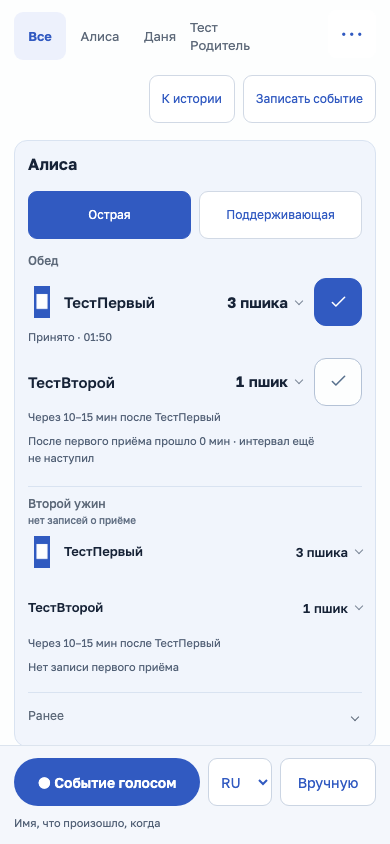
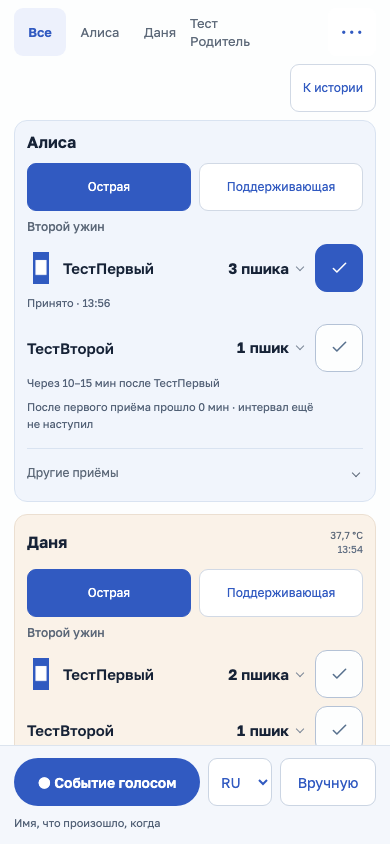
Compact family overview and clarify slot focus and dated measurements

diff --git a/site/public/family-workspace.js b/site/public/family-workspace.js
@@ -1,4 +1,4 @@
-import {shortDose} from '/family-preview-model.js';
+import {shortDose,measurementStamp} from '/family-preview-model.js';
 import {careDrug,careFamily,escapeHTML as e} from '/family-card.js';
 import {anchors,dayType} from '/routine.js';
 import {medicineForms,allowedMedicineUnits} from '/medicine-forms.js';
@@ -6,7 +6,7 @@ import {allRows,activeEvents,rowEvent,dependencyStatus,courseWarnings,localInsta
 import {photosForMedicine} from '/medicine-images.js';
 import {captureVoice} from '/voice-capture.js';
 const root=document.querySelector('#family'),dialog=document.querySelector('#family-info'),notice=document.querySelector('#family-status');
-let snapshot,selected=localStorage.getItem('medika-family-person')||'all',actions=[],openKey='',historyDrug=false,saving=false,loading=false,token='',day='',recording=null,voiceAt='',initialized=false,language=['ru','en'].includes(localStorage.getItem('medika-language'))?localStorage.getItem('medika-language'):'ru';
+let snapshot,selected=localStorage.getItem('medika-family-person')||'all',actions=[],openKey='',historyDrug=false,saving=false,loading=false,token='',day='',recording=null,voiceAt='',language=['ru','en'].includes(localStorage.getItem('medika-language'))?localStorage.getItem('medika-language'):'ru';
 const earlierOpen=new Set(),newId=()=> 'family-'+Array.from(crypto.getRandomValues(new Uint32Array(2)),n=>n.toString(16)).join('');
 const baseRows=()=>allRows(snapshot),rxFor=id=>snapshot.prescriptions.find(r=>r.id===id)||{},effectiveRow=row=>({...row,warnings:courseWarnings(rxFor(row.prescriptionId),snapshot.model.date)}),phaseOf=p=>p.phaseKey,visibleRow=(r,p)=>{const rx=rxFor(r.prescriptionId);return rx.confirmed&&(!rx.phase||rx.phase===phaseOf(p))&&rx.startDate<=snapshot.model.date&&(!rx.endDate||rx.endDate>=snapshot.model.date);};
 function message(text,undoId=''){notice.innerHTML=`<span>${e(text)}</span>${undoId?`<button type="button" data-undo="${e(undoId)}">Отменить</button>`:''}`;clearTimeout(message.timer);message.timer=setTimeout(()=>notice.textContent='',12000);}
@@ -16,7 +16,7 @@ async function api(path,body=null,method=body?'POST':'GET'){
   if(!response.ok){if(response.status===403)token='';const error=Error(value.error||'Не удалось сохранить');error.status=response.status;throw error;}return value;
 }
 function setBusy(value){root.setAttribute('aria-busy',String(value));for(const n of [...root.querySelectorAll('input,button,select'),...dialog.querySelectorAll('input,button,select,textarea')]){if(value){if(!('wasDisabled' in n.dataset))n.dataset.wasDisabled=String(n.disabled);n.disabled=true;}else if('wasDisabled' in n.dataset){n.disabled=n.dataset.wasDisabled==='true';delete n.dataset.wasDisabled;}}if(recording)root.querySelectorAll('input,button,select').forEach(n=>n.disabled=!n.hasAttribute('data-voice'));}
-async function refresh(){snapshot=await api('/family');day=dayType(snapshot.model.date);if(!snapshot.model.cards.some(p=>p.id===selected))selected='all';if(!initialized&&innerWidth>=700)openKey=snapshot.model.cards.find(p=>(selected==='all'||p.id===selected)&&p.current)?.current.rows[0]?.key||'';initialized=true;render();}
+async function refresh(){snapshot=await api('/family');day=dayType(snapshot.model.date);if(!snapshot.model.cards.some(p=>p.id===selected))selected='all';render();}
 async function load(){if(loading||saving||recording||dialog.open)return;loading=true;try{await refresh();}catch(error){message(error.message);if(!snapshot)root.innerHTML='<main class="family-loading"><p>Не удалось открыть журнал</p><button data-retry>Обновить</button></main>';}finally{loading=false;}}
 async function mutate(path,body,method='POST',{close=true,success='Сохранено',undo=false}={}){
   if(saving||recording)return;saving=true;setBusy(true);let result,error;
@@ -39,37 +39,40 @@ function showDialog(title,body){dialog.innerHTML=`<header><h2 id="family-info-ti
 function medicineThumb(name){const photos=photosForMedicine(name,snapshot.medicinePhotos||[]).photos,p=photos.find(p=>p.kind==='product')||photos[0];if(!p)return '';return `<span class="family-thumb" aria-hidden="true">${p.crop?`<svg viewBox="${p.crop.slice(0,4).join(' ')}"><image href="${e(p.src)}" width="${p.crop[4]}" height="${p.crop[5]}"/></svg>`:`<img src="${e(p.src)}" alt="">`}</span>`;}
 function medicinePhotos(name){const record=photosForMedicine(name,snapshot.medicinePhotos||[]);return record.photos.length?`<section class="family-photos">${record.photos.map(p=>p.crop?`<figure><svg viewBox="${p.crop.slice(0,4).join(' ')}" role="img" aria-label="${e(name)}"><image href="${e(p.src)}" width="${p.crop[4]}" height="${p.crop[5]}"/></svg><figcaption>${p.kind==='product'?'Препарат':'Упаковка'}${p.note?' · '+e(p.note):''}</figcaption>${p.source?`<a href="${e(p.source)}" target="_blank" rel="noreferrer">Источник фото</a>`:''}</figure>`:`<figure><img src="${e(p.src)}" alt="${e(name)}"><figcaption>${p.kind==='product'?'Препарат':'Упаковка'}${p.note?' · '+e(p.note):''}</figcaption>${p.source?`<a href="${e(p.source)}" target="_blank" rel="noreferrer">Источник фото</a>`:''}</figure>`).join('')}</section>`:'';}
 function medicineInfo(key){const row=baseRows().find(r=>r.key===key);if(!row)return;showDialog(row.name,`${medicinePhotos(row.name)}${row.info.fields.length?`<section><h3>Данные препарата</h3>${fields(row.info.fields)}</section>`:''}${row.info.notes.length?`<section><h3>Условия назначения</h3>${fields(row.info.notes)}</section>`:''}${row.info.source?`<details class="medicine-source"><summary>Исходная запись врача</summary><p>${e(row.info.source)}</p></details>`:''}`);}
-function renderRow(source,later=false){const row=effectiveRow(source),event=rowEvent(snapshot,actions,row),status=event?`Принято · ${event.occurredAt?formatTime(event.occurredAt):'время неизвестно'}`:row.status||'',dependency=dependencyStatus(snapshot,actions,row);
+function renderRow(source,later=false){const row=effectiveRow(source),event=rowEvent(snapshot,actions,row),status=event?`Принято · ${event.occurredAt?formatTime(event.occurredAt):'время неизвестно'}`:row.status||'',dependencyState=dependencyStatus(snapshot,actions,row),dependency=dependencyState==='Нет записи первого приёма'&&row.dependency?.prescriptionId?'':dependencyState;
   let html=careDrug(event?.name||row.name,event?.input?shortDose({dose:event.input.actualDose||event.input.amount||event.input.dose,unit:event.input.unit}):row.dose,'',{later,readOnly:row.anchor==='unassigned'||row.canTake===false,actionKey:row.anchor==='unassigned'?'':row.key,fields:row.fields,moreId:row.info.fields.length||row.info.notes.length||row.info.source?row.key:'',after:row.after,taken:!!event,status});
-  html=html.replace(/<span class="care-med-name" data-drug-name>(.*?)<\/span>/,(_,name)=>`<span class="care-med-name" data-drug-name>${medicineThumb(row.name)}<span class="family-drug-label">${name}</span></span>`);
+  html=html.replace(/<span class="care-med-name" data-drug-name>(.*?)<\/span>/,(_,name)=>`<span class="care-med-name" data-drug-name>${medicineThumb(row.name)}<span class="family-drug-label">${name}</span>${row.warnings.length?`<span class="family-review-marker" role="img" aria-label="Расхождение назначения" title="${e(row.warnings.join(' · '))}">!</span>`:''}</span>`);
   html=html.replace('</dl>','</dl>'+`<div class="sandbox-row-actions"><button type="button" data-record="${e(row.key)}">${event||row.eventId?'Изменить факт':'Записать приём'}</button><button type="button" data-edit="${e(row.prescriptionId)}">Изменить назначение</button></div>`);
   if(row.warnings.length)html=html.replace('</summary>',`</summary><p class="sandbox-warning">${e(row.warnings.join(' · '))}</p>`);
   return `<div class="sandbox-dose${openKey===row.key?' is-selected':''}" data-demo-row="${e(row.key)}">${html}${dependency?`<p class="dependency-state">${e(dependency)}</p>`:''}</div>`;
 }
-function group(g,p,later=true){const rows=g.rows.filter(r=>visibleRow(r,p));if(!rows.length)return '';return `<section class="${later?'care-later':'care-current'}"><h3 class="sandbox-current-label">${e(g.label)}${rows.every(r=>!rowEvent(snapshot,actions,r))?' <small>нет записей о приёме</small>':''}</h3>${rows.map(r=>renderRow({...r,personId:p.id},later)).join('')}</section>`;}
+function group(g,p,later=true){const rows=g.rows.filter(r=>visibleRow(r,p));if(!rows.length)return '';return `<section class="${later?'care-later':'care-current'}"><h3 class="sandbox-current-label">${e(g.label)}</h3>${rows.map(r=>renderRow({...r,personId:p.id},later)).join('')}</section>`;}
 function peopleView(){return snapshot.model.cards;}
 function card(p){
   const own=snapshot.prescriptions.filter(r=>r.personId===p.id),phase=phaseOf(p),hasRows=[...(p.current?.rows||[]),...p.later.flatMap(g=>g.rows),...p.earlier.flatMap(g=>g.rows),...p.prn].some(r=>visibleRow(r,p));
-  const earlier=p.earlier.map(g=>group(g,p)).join(''),plan=hasRows?`${p.current?group(p.current,p,false):''}${p.later.map(g=>group(g,p)).join('')}${earlier?`<details class="care-earlier" data-earlier="${e(p.id)}"${earlierOpen.has(p.id)?' open':''}><summary>Ранее</summary>${earlier}</details>`:''}`:`<p class="family-empty">${own.length&&phase==='prevention'?'Поддерживающая схема ещё не добавлена':'Нет действующих плановых назначений'}</p>`;
-  const temperature=activeEvents(snapshot,actions).filter(r=>r.personId===p.id&&r.kind==='temperature'&&r.occurredAt).sort((a,b)=>Date.parse(b.occurredAt)-Date.parse(a.occurredAt))[0];
   const outside=own.filter(r=>!r.confirmed||r.startDate>snapshot.model.date||r.endDate&&r.endDate<snapshot.model.date);
-  return `<section class="care-person color-${p.color}" data-person="${e(p.id)}"><header class="care-person-head"><h2>${e(p.name)}</h2>${temperature?`<span class="care-phase">${e(temperature.name)} · ${e(formatTime(temperature.occurredAt))}</span>`:''}</header>${own.length?`<div class="sandbox-phases" role="group" aria-label="Фаза ${e(p.name)}">${[['acute','Острая'],['prevention','Поддерживающая']].map(([key,label])=>`<button type="button" data-phase="${key}" data-person="${e(p.id)}" aria-pressed="${phase===key}">${label}</button>`).join('')}</div>`:''}${plan}${p.prn.filter(r=>visibleRow(r,p)).length?`<section class="care-later"><h3>По необходимости</h3>${p.prn.filter(r=>visibleRow(r,p)).map(r=>renderRow({...r,personId:p.id},true)).join('')}</section>`:''}${outside.length?`<details class="care-earlier"><summary>Другие назначения · ${outside.length}</summary>${outside.map(r=>`<button class="sandbox-outside" type="button" data-edit="${e(r.id)}">${e(r.name)}<small>${e(!r.confirmed?'Не подтверждено':courseWarnings(r,snapshot.model.date).join(' · ')||'Курс завершён')}</small></button>`).join('')}</details>`:''}${!hasRows?`<button type="button" class="sandbox-empty-event" data-add-event="${e(p.id)}">Записать событие</button>`:''}</section>`;
+  const extra=p.later.map(g=>`<div data-slot-period="later">${group(g,p)}</div>`).join('')+p.earlier.map(g=>`<div data-slot-period="earlier">${group(g,p)}</div>`).join('');
+  const extraContent=extra+(outside.length?`<section class="family-outside"><h3>Другие назначения</h3>${outside.map(r=>`<button class="sandbox-outside" type="button" data-edit="${e(r.id)}">${e(r.name)}<small>${e(!r.confirmed?'Не подтверждено':courseWarnings(r,snapshot.model.date).join(' · ')||'Курс завершён')}</small></button>`).join('')}</section>`:'');
+  const plan=(p.current?group(p.current,p,false):hasRows?'':`<p class="family-empty">${own.length&&phase==='prevention'?'Поддерживающая схема ещё не добавлена':'Нет действующих плановых назначений'}</p>`)+(extraContent?`<details class="care-earlier family-other-slots" data-earlier="${e(p.id)}"${earlierOpen.has(p.id)?' open':''}><summary><span>Другие приёмы</span>${p.later[0]?`<small>Дальше · ${e(p.later[0].label)}</small>`:''}</summary>${extraContent}</details>`:'');
+  const temperature=activeEvents(snapshot,actions).filter(r=>r.personId===p.id&&r.kind==='temperature').sort((a,b)=>(b.date||'').localeCompare(a.date||'')||Date.parse(b.occurredAt||b.input?.createdAt||0)-Date.parse(a.occurredAt||a.input?.createdAt||0))[0];
+  return `<section class="care-person color-${p.color}" data-person="${e(p.id)}"><header class="care-person-head"><h2>${e(p.name)}</h2>${temperature?`<span class="care-phase">${e(temperature.name)}<small>${e(measurementStamp(temperature,snapshot.model.date,snapshot.timeZone))}</small></span>`:''}</header>${own.length?`<div class="sandbox-phases" role="group" aria-label="Фаза ${e(p.name)}">${[['acute','Острая'],['prevention','Поддерживающая']].map(([key,label])=>`<button type="button" data-phase="${key}" data-person="${e(p.id)}" aria-pressed="${phase===key}">${label}</button>`).join('')}</div>`:''}${plan}${p.prn.filter(r=>visibleRow(r,p)).length?`<section class="care-later"><h3>По необходимости</h3>${p.prn.filter(r=>visibleRow(r,p)).map(r=>renderRow({...r,personId:p.id},true)).join('')}</section>`:''}${!hasRows?`<button type="button" class="sandbox-empty-event" data-add-event="${e(p.id)}">Записать событие</button>`:''}</section>`;
 }
 const formatTime=instant=>new Date(instant).toLocaleTimeString('ru-RU',{timeZone:snapshot.timeZone,hour:'2-digit',minute:'2-digit'});
 const formatDate=instant=>new Date(instant).toLocaleDateString('ru-RU',{timeZone:snapshot.timeZone,day:'numeric',month:'long'});
-function eventHTML(r,names,local=false){const cancelled=r.status==='void',kind=r.kind==='cancel'?'cancel':r.kind;
-  return `<div class="care-event${local?' demo-event':''}${cancelled?' is-cancelled':''}" data-kind="${e(kind)}"><time>${r.occurredAt?e(formatTime(r.occurredAt)):'—'}${!local&&r.date!==snapshot.model.date?`<small>${e(r.date.slice(5).split('-').reverse().join('.'))}${r.date.slice(0,4)!==snapshot.model.date.slice(0,4)?' '+e(r.date.slice(0,4)):''}</small>`:''}</time><span>${e(names.get(r.personId)||'')}</span><strong>${r.kind==='cancel'?'Отмена · ':''}${e(r.name)}<small>${e(r.detail||'')}${cancelled?' · отменено':''}${!r.occurredAt?' · время неизвестно':''}${local?' · демо':''}</small></strong>${!cancelled?`<button type="button" class="family-event-edit" data-edit-event="${e(r.id)}" aria-label="Изменить запись ${e(r.name)}">Изменить</button>`:''}</div>`;
+function eventHTML(r,names,local=false,grouped=false){const cancelled=r.status==='void',kind=r.kind==='cancel'?'cancel':r.kind;
+  return `<div class="care-event${local?' demo-event':''}${cancelled?' is-cancelled':''}" data-kind="${e(kind)}"><time>${r.occurredAt?e(formatTime(r.occurredAt)):'—'}${!local&&!grouped&&r.date!==snapshot.model.date?`<small>${e(r.date.slice(5).split('-').reverse().join('.'))}${r.date.slice(0,4)!==snapshot.model.date.slice(0,4)?' '+e(r.date.slice(0,4)):''}</small>`:''}</time><span>${e(names.get(r.personId)||'')}</span><strong>${r.kind==='cancel'?'Отмена · ':''}${e(r.name)}<small>${e(r.detail||'')}${cancelled?' · отменено':''}${!r.occurredAt?' · время неизвестно':''}${local?' · демо':''}</small></strong>${!cancelled?`<button type="button" class="family-event-edit" data-edit-event="${e(r.id)}" aria-label="Изменить запись ${e(r.name)}">Изменить</button>`:''}</div>`;
 }
+function historyDays(history,names){const groups=new Map();for(const r of history){if(!groups.has(r.date))groups.set(r.date,[]);groups.get(r.date).push(r);}return [...groups].sort(([a],[b])=>b.localeCompare(a)).map(([date,rows])=>`<section class="family-history-day">${date!==snapshot.model.date?`<h3>${e(new Date(date+'T12:00:00Z').toLocaleDateString('ru-RU',{timeZone:'UTC',day:'numeric',month:'long',...(date.slice(0,4)!==snapshot.model.date.slice(0,4)?{year:'numeric'}:{})}))}</h3>`:''}${rows.map(r=>eventHTML(r,names,false,true)).join('')}</section>`).join('');}
 function historyHTML(people=snapshot.model.cards){
   const names=new Map(people.map(p=>[p.id,p.name])),chosen=baseRows().find(r=>r.key===openKey),filter=r=>(selected==='all'||r.personId===selected)&&(!historyDrug||!chosen||r.personId===chosen.personId&&(r.prescriptionId===chosen.prescriptionId||r.name===chosen.name));
   const history=snapshot.model.history.filter(filter);
-  const recent=activeEvents(snapshot,actions).filter(r=>r.kind==='medication'&&!['skipped','deferred'].includes(r.status)&&(selected==='all'||r.personId===selected)).slice().sort((a,b)=>Date.parse(b.occurredAt||0)-Date.parse(a.occurredAt||0)).filter((r,i,list)=>list.findIndex(x=>x.personId===r.personId&&x.name===r.name)===i).slice(0,4);
-  return `<div class="sandbox-history-head"><h2>История${historyDrug&&chosen?' · '+e(names.get(chosen.personId)):''}</h2>${chosen?`<button type="button" data-history-filter aria-pressed="${historyDrug}">${historyDrug?'Все события':'Только '+e(chosen.name)}</button>`:''}</div>${recent.length&&!historyDrug?`<details class="sandbox-recent" open><summary>Последние лекарства</summary>${recent.map(r=>`<p><strong>${e(names.get(r.personId))} · ${e(r.name)}</strong><span>${e(r.detail)} · ${r.occurredAt?e(formatDate(r.occurredAt)+' '+formatTime(r.occurredAt)):'время неизвестно'}</span></p>`).join('')}</details>`:''}<section><h3 class="sr-only">История</h3>${history.length?history.map(r=>eventHTML(r,names)).join(''):'<p class="family-empty">Событий нет</p>'}</section>`;
+  const recent=activeEvents(snapshot,actions).filter(r=>r.kind==='medication'&&!['skipped','deferred'].includes(r.status)&&(selected==='all'||r.personId===selected)).slice().sort((a,b)=>(b.date||'').localeCompare(a.date||'')||Date.parse(b.occurredAt||b.input?.createdAt||0)-Date.parse(a.occurredAt||a.input?.createdAt||0)).filter((r,i,list)=>list.findIndex(x=>x.personId===r.personId&&x.name===r.name)===i).slice(0,4);
+  return `<div class="sandbox-history-head"><h2>История${historyDrug&&chosen?' · '+e(names.get(chosen.personId)):''}</h2>${chosen?`<button type="button" data-history-filter aria-pressed="${historyDrug}">${historyDrug?'Все события':'Только '+e(chosen.name)}</button>`:''}</div>${recent.length&&!historyDrug?`<details class="sandbox-recent" open><summary>Последние лекарства</summary>${recent.map(r=>`<p><strong>${e(names.get(r.personId))} · ${e(r.name)}</strong><span>${e(r.detail)} · ${e(measurementStamp(r,snapshot.model.date,snapshot.timeZone))}</span></p>`).join('')}</details>`:''}<section><h3 class="sr-only">История</h3>${history.length?historyDays(history,names):'<p class="family-empty">Событий нет</p>'}</section>`;
 }
 function render(focus=false){
   const scroll=root.querySelector('main')?.scrollTop||0,historyScroll=root.querySelector('.sandbox-history')?.scrollTop||0;
   const people=peopleView(),visible=people.filter(p=>selected==='all'?p.current||p.prn.length||snapshot.prescriptions.some(r=>r.personId===p.id):p.id===selected);
-  root.innerHTML=`<header class="family-toolbar">${careFamily(people,selected)}<button type="button" data-tools aria-label="Ещё">⋯</button></header><nav class="sandbox-jump"><a href="#sandbox-history">К истории</a><button type="button" data-add-event="">Записать событие</button></nav><main class="care-board sandbox-workspace"><section class="sandbox-plan" aria-label="Лекарства и назначения"><h1 class="sr-only">Лекарства и назначения</h1><div class="care-people">${visible.length?visible.map(card).join(''):'<p class="family-empty">Действующих назначений нет</p>'}</div></section><aside id="sandbox-history" class="sandbox-history care-history" aria-label="История">${historyHTML(people)}</aside></main><footer class="family-preview-footer"><button type="button" class="voice" data-voice>${recording?'■ Отправить':'● Событие голосом'}</button><select id="family-language" aria-label="Язык диктовки"><option value="ru"${language==='ru'?' selected':''}>RU</option><option value="en"${language==='en'?' selected':''}>EN</option></select><button type="button" data-add-event="">Вручную</button><p role="status">${recording?'Скажите имя и событие · пауза отправит запись':saving?'Сохраняю…':'Имя, что произошло, когда'}</p></footer>`;
+  root.innerHTML=`<header class="family-toolbar">${careFamily(people,selected)}<button type="button" data-tools aria-label="Ещё">⋯</button></header><nav class="sandbox-jump"><a href="#sandbox-history">К истории</a></nav><main class="care-board sandbox-workspace"><section class="sandbox-plan" aria-label="Лекарства и назначения"><h1 class="sr-only">Лекарства и назначения</h1><div class="care-people">${visible.length?visible.map(card).join(''):'<p class="family-empty">Действующих назначений нет</p>'}</div></section><aside id="sandbox-history" class="sandbox-history care-history" aria-label="История">${historyHTML(people)}</aside></main><footer class="family-preview-footer"><button type="button" class="voice" data-voice>${recording?'■ Отправить':'● Событие голосом'}</button><select id="family-language" aria-label="Язык диктовки"><option value="ru"${language==='ru'?' selected':''}>RU</option><option value="en"${language==='en'?' selected':''}>EN</option></select><button type="button" data-add-event="">Вручную</button><p role="status">${recording?'Скажите имя и событие · пауза отправит запись':saving?'Сохраняю…':'Имя, что произошло, когда'}</p></footer>`;
   if(openKey){const wrapper=[...root.querySelectorAll('[data-demo-row]')].find(n=>n.dataset.demoRow===openKey);if(wrapper)wrapper.querySelector('details').open=true;}
   root.querySelector('main').scrollTop=scroll;root.querySelector('.sandbox-history').scrollTop=historyScroll;
   setBusy(saving);

diff --git a/site/public/family-preview-model.js b/site/public/family-preview-model.js
@@ -17,6 +17,26 @@ function prescriptionFields(rx,item,group){
 }
 function medicineInfo(rx){return {fields:[['Форма',medicineForms[rx.form]?.name||rx.form],['Концентрация',rx.strength],['Способ применения',rx.route]].filter(([,value])=>value),notes:[['Условия',rx.conditions],['Цель',rx.purpose]].filter(([,value])=>value),source:rx.sourceText||''};}
 
+// Display focus uses configured context only; it never changes the plan or marks a missed dose.
+export function selectFamilyGroup(groups,{now=new Date(),timeZone='Europe/Chisinau'}={}){
+  const pending=groups.map((g,index)=>({g,index})).filter(({g})=>g.rows.some(r=>!r.taken&&!r.eventId));
+  if(!groups.length)return -1;
+  const chain=pending.find(({g})=>g.rows.some(target=>{
+    if(target.taken||target.eventId)return false;
+    const link=String(target.after||'').match(/Через\s+(\d+)(?:\s*[–-]\s*(\d+))?\s+мин\s+после\s+(.+)/iu);if(!link)return false;
+    const first=g.rows.find(r=>r.taken&&(r.prescribedName||r.name).toLocaleLowerCase()===link[3].trim().toLocaleLowerCase());
+    const elapsed=first?.takenAt?(Number(now)-Date.parse(first.takenAt))/60000:NaN;
+    return elapsed>=0&&elapsed<=Number(link[2]||link[1]);
+  }));if(chain)return chain.index;
+  const nowClock=localTime(now,timeZone).split(':').map(Number),minutes=nowClock[0]*60+nowClock[1];
+  const timed=groups.map((g,index)=>({g,index})).filter(({g})=>clock(g.time));if(timed.length){timed.sort((a,b)=>{const distance=g=>{const [h,m]=g.time.split(':').map(Number);return Math.abs(h*60+m-minutes);};return distance(a.g)-distance(b.g)||a.index-b.index;});return timed[0].index;}
+  return pending[0]?.index??0;
+}
+export function measurementStamp(record,date,timeZone='Europe/Chisinau'){
+  const known=record.date||record.knownDate||(record.occurredAt?localDate(record.occurredAt,timeZone):''),previous=new Date(Date.parse(date+'T12:00:00Z')-86400000).toISOString().slice(0,10);
+  const label=known===date?'':known===previous?'вчера':known?new Date(known+'T12:00:00Z').toLocaleDateString('ru-RU',{timeZone:'UTC',day:'numeric',month:'long',...(known.slice(0,4)!==date.slice(0,4)?{year:'numeric'}:{})}):'дата неизвестна';
+  return [label,record.timeUnknown||!record.occurredAt?'время неизвестно':localTime(record.occurredAt,timeZone)].filter(Boolean).join(' · ');
+}
 export function familyPreview(state,schedule,{date,now=new Date(),timeZone='Europe/Chisinau'}={}){
   date??=localDate(now,timeZone);
   const order=['Алиса','Даня','Мама','Папа'],rank=p=>{const n=order.indexOf(p.displayName||p.name);return n<0?order.length:n;};
@@ -33,14 +53,12 @@ export function familyPreview(state,schedule,{date,now=new Date(),timeZone='Euro
       const event=item.event,shown=event?.status==='taken'?{...item,name:event.name,dose:event.actualDose||event.dose,unit:event.unit,doseScope:event.doseScope}:item;
       const sequence=prescriptionSequence(rx),fields=prescriptionFields(rx,item,group);
       if(event?.status==='taken'&&(String(shown.dose)!==String(rx.dose)||shown.unit!==rx.unit))fields.push(['Фактически',shortDose(shown)]);
-      group.rows.push({key:item.key,rxId:rx.id,rxVersion:rx.version,plannedDose:rx.dose,eventId:event?.id,eventVersion:event?.version,canTake:Boolean(item.key)&&anchor!=='unassigned'&&(!event||event.status==='taken'),name:shown.name,dose:shortDose(shown),taken:event?.status==='taken',status:event?({taken:event.timeUnknown?'Принято · время неизвестно':`Принято в ${localTime(event.occurredAt,event.timeZone||timeZone)}`,skipped:'Пропущено',deferred:'Отложено'}[event.status]||''):'',after:sequence||(rx.type==='interval'&&rx.intervalHours?`Каждые ${rx.intervalHours} ч`:''),fields,info:medicineInfo(rx)});
+      group.rows.push({key:item.key,rxId:rx.id,prescribedName:rx.name,takenAt:event?.status==='taken'?event.occurredAt||null:null,rxVersion:rx.version,plannedDose:rx.dose,eventId:event?.id,eventVersion:event?.version,canTake:Boolean(item.key)&&anchor!=='unassigned'&&(!event||event.status==='taken'),name:shown.name,dose:shortDose(shown),taken:event?.status==='taken',status:event?({taken:event.timeUnknown?'Принято · время неизвестно':`Принято в ${localTime(event.occurredAt,event.timeZone||timeZone)}`,skipped:'Пропущено',deferred:'Отложено'}[event.status]||''):'',after:sequence||(rx.type==='interval'&&rx.intervalHours?`Каждые ${rx.intervalHours} ч`:''),fields,info:medicineInfo(rx)});
     }
     const ordered=[...groups.values()].sort((a,b)=>(a.time||'99:99').localeCompare(b.time||'99:99'));
-    const nowTime=localTime(now,timeZone);let currentIndex=0;
-    // Keep the last started slot visible until the next one begins; no catch-up recommendation.
-    for(let i=0;i<ordered.length;i++)if(ordered[i].time&&ordered[i].time<=nowTime)currentIndex=i;
+    const currentIndex=selectFamilyGroup(ordered,{now,timeZone});
     const prn=(schedule.prn||[]).filter(r=>r.personId===person.id&&r.confirmed&&!r.archived).map(r=>({key:r.id,rxId:r.id,name:r.name,dose:shortDose(r),fields:prescriptionFields(r,{}, {label:'По необходимости'}),info:medicineInfo(r)}));
-    return {id:person.id,name:person.displayName||person.name,phase:phaseLabel(person.carePhase),color:['blue','peach','mint','lilac'][index%4],current:ordered[currentIndex]||null,later:ordered.slice(currentIndex+1),earlier:ordered.slice(0,currentIndex),prn};
+    return {id:person.id,name:person.displayName||person.name,phase:phaseLabel(person.carePhase),color:['blue','peach','mint','lilac'][index%4],current:currentIndex<0?null:ordered[currentIndex],later:currentIndex<0?[]:ordered.slice(currentIndex+1),earlier:currentIndex<0?ordered:ordered.slice(0,currentIndex),prn};
   });
   const records=[...(state.activities||[]),...(state.temperatures||[]).map(r=>({...r,kind:'temperature'})),...(state.events||[]).map(r=>({...r,kind:'medication',amount:r.actualDose||r.dose}))];
   const history=records.filter(r=>r.status!=='void'&&Number.isFinite(Date.parse(r.occurredAt))&&Date.parse(r.occurredAt)<=Number(now)&&localDate(r.occurredAt,r.timeZone||timeZone)===date).sort((a,b)=>b.occurredAt.localeCompare(a.occurredAt)).map(r=>({personId:r.personId,time:localTime(r.occurredAt,r.timeZone||timeZone),name:r.kind==='temperature'?Number(r.celsius).toLocaleString('ru-RU',{minimumFractionDigits:1,maximumFractionDigits:2})+' °C':r.kind==='inhalation'?['Ингаляция',r.name].filter(Boolean).join(' · '):r.name||({diarrhea:'Диарея',vomiting:'Рвота',retching:'Позывы к рвоте',inhalation:'Ингаляция',other:'Событие'}[r.kind]||'Событие'),detail:[r.amount?shortDose({dose:r.amount,unit:r.unit}):'',r.status==='skipped'?'Пропущено':r.status==='deferred'?'Отложено':r.kind==='medication'?'принято':''].filter(Boolean).join(' ')}));

diff --git a/site/public/family-workspace.css b/site/public/family-workspace.css
@@ -32,3 +32,28 @@
 .family-thumb img,.family-thumb svg{width:100%;height:100%;object-fit:contain}
 .family-drug-label{min-width:0;overflow-wrap:anywhere}
 .family-photos a{display:flex;align-items:center;min-height:48px;margin-top:8px;font-size:12px;color:#315ac1}
+/* The overview starts closed; details must not push the next person off screen. */
+.family-app .family-toolbar .care-family{padding:8px 14px}
+.family-app .sandbox-jump{padding:0 14px 8px}
+.family-app .sandbox-plan .care-people{margin-top:0;gap:12px}
+.family-app .care-person{padding:10px 12px 4px}
+.family-app .care-person-head{padding-bottom:6px}
+.family-app .care-person-head h2{font-size:16px}
+.family-app .care-person-head .care-phase{text-align:right;line-height:1.4}
+.family-app .care-person-head .care-phase small{display:block;font-size:10px;color:#627084}
+.family-app .sandbox-phases{margin:4px 0 8px}
+.family-app .care-current{padding-bottom:4px}
+.family-app .family-other-slots{margin-top:4px}
+.family-app .family-other-slots>summary{gap:8px;justify-content:space-between}
+.family-app .family-other-slots>summary small{font-size:10px;color:#627084;margin-left:auto;text-align:right}
+.family-app .family-other-slots [data-slot-period]+[data-slot-period]{margin-top:8px}
+.family-app .family-other-slots .care-later{margin:0;padding:8px 0}
+.family-app .family-outside h3{font-size:12px;margin:8px 0}
+.family-review-marker{display:inline-flex;align-items:center;justify-content:center;width:16px;height:16px;flex-shrink:0;border-radius:50%;background:#fff0d7;color:#86541b;font:600 11px/1 Golos,system-ui,sans-serif}
+.family-app .family-history-day>h3{font-size:11px;font-weight:500;color:#627084;margin:12px 0 0}
+@container screen (min-width:700px){
+ .family-app .sandbox-jump{display:none}
+ .family-app .sandbox-workspace{gap:16px}
+ .family-app .sandbox-history{padding-left:16px}
+ .family-app .sandbox-plan .care-person{padding:10px 12px 4px}
+}

diff --git a/design-study/BRIEF.md b/design-study/BRIEF.md
@@ -120,3 +120,13 @@
 После перехода проверен настоящий главный адрес по LAN на пяти размерах и HTTPS через существующий локальный CA. Выполнялись только GET и раскрытие/фильтры, без клинических записей и реальных скриншотов. Состав медицинских коллекций совпал и до/после просмотра, и с приватной копией перед переносом. Небольшое фото препарата восстановлено у названия, крупная пара и источник — в отдельной информации. В UI-canary фото синтетическое и сохраняется существующим API.
 
 Дополнительная граница данных: для планового факта с неизвестным временем сохраняется именно введённая известная дата, а не текущий день плана. Это проверено через экран и реальный API временной базы.
+
+## Исправление обзора по скриншоту iPad
+
+Пользователь подтвердил необходимость исправить и компоновку, и представление данных. Причины: первое лекарство автоматически раскрывалось на планшете; отдельная верхняя строка дублировала запись события; все последующие группы отображались целиком. Модель держала последний начатый слот до следующего, а шапка показывала часы старого измерения без даты.
+
+Изменения: первоначально закрытые инструкции, одно раскрытие дополнительных слотов и будущих назначений, без дублирующей кнопки на планшете; компактные отступы при сохранении зон 48×48 и промежутков 8px. Предупреждение курса имеет небольшой маркер; полный текст остаётся в раскрытии. Отдельная строка «нет записи первого» не повторяет уже показанную последовательность, но фактический отсчёт и неизвестное время сохраняются. Старое измерение подписывается датой, история группируется по дням.
+
+Основной слот обзора выбирается как ближайший по явно настроенным часам, без изменения плана. Если явная связанная последовательность уже начата и ещё находится в её заданном интервале, показывается эта группа. Завершение фокуса не возвращает старый неотмеченный завтрак как обязательное действие. Выполненные ближайшие приёмы остаются видны с отметками. Диапазоны часов и отсутствующие времена не достраиваются. Медицинские расхождения длительности не разрешаются автоматически.
+
+До полной матрицы пройден малый сценарий с фиксированным контекстом: 13:38 → личные слоты двух детей → закрытые карточки → предупреждение источника → запись/reload/отмена → доступность прошлых приёмов и точных часов. Затем проверены пять размеров, включая 1280×752 как область страницы на пользовательском скриншоте. Обе карточки и основные дозы помещаются полностью; горизонтального переполнения нет. 62 теста и общий canary прошли. Скриншоты только синтетические; физический iPad не использовался.

diff --git a/AGENTS.md b/AGENTS.md
@@ -6,6 +6,8 @@
 
 - `/family` — рабочий A1 на реальных данных: публична пустая оболочка, назначения/история загружаются защищённым API. Галочка пишет факт только по явному действию пользователя; снятие отменяет запись с сохранением истории. Автоматизированные отметки проверять только во временной синтетической базе. Не встраивать реальную базу в HTML/JS/Git и QA-скриншоты. Не превращать точное время в слот еды из догадки. В раскрытии — структурированное назначение; свойства препарата и исходный текст — в отдельном dialog. Не отключать ранее доступные действия при переносе UI без просьбы пользователя.
 
+- Семейный обзор изначально свёрнут. Не раскрывать первое лекарство автоматически на планшете; основные дозы обоих детей должны быть видны до раскрытия. Дата старого измерения обязательна, часы без даты не должны создавать впечатление свежего факта. Выбор отображаемого слота не меняет назначение и не означает рекомендацию догнать старый приём.
+
 - Мобильный дизайн: фактические зоны действий не меньше 48 × 48 CSS px, свободный промежуток между ними не меньше 8px. Раскрытие лекарства и отметка приёма — раздельные действия с промежутком 12px. Обязательны геометрическая проверка и touch-нажатия на центре/краях зон; скриншот не заменяет их. Полные правила и разобранная ошибка A1 v2: `design-study/DESIGN-RULES.md`.
 
 - Код продукта находится в `site/`. Процесс запускается только через Local Projects Dashboard, сервис `web`. Исходные медицинские документы и `site/data/` не коммитить и не отправлять внешним сервисам.
